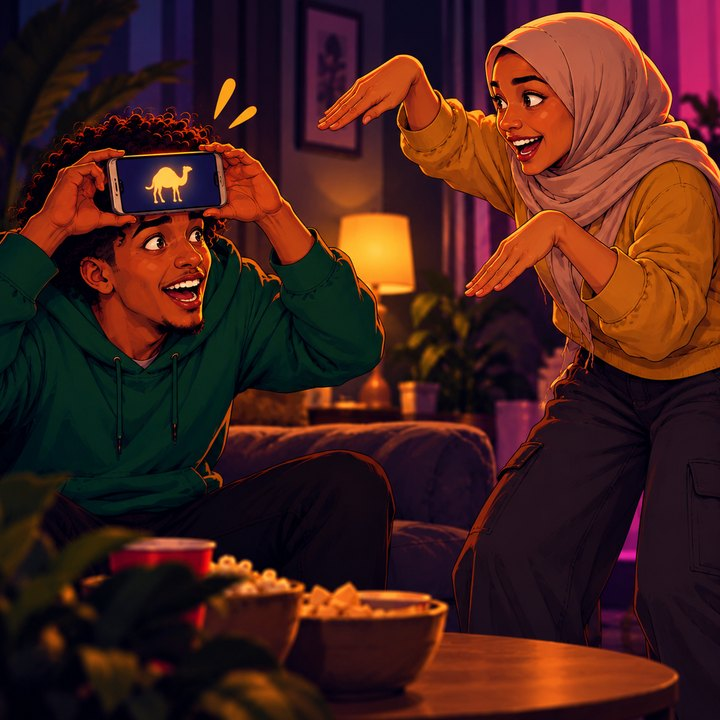
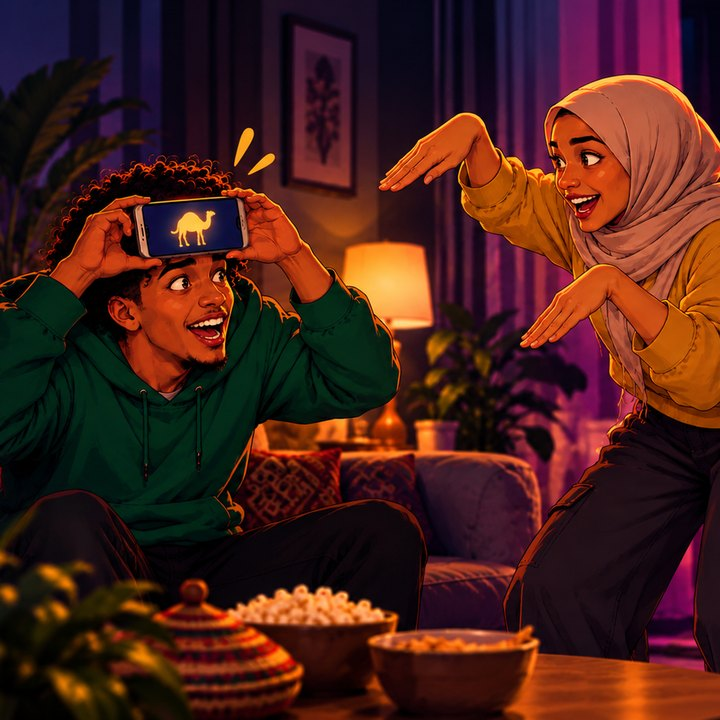
Add Would You Rather rooftop scene and a wide Gimbar cut
Every game on the home screen now has its own illustration; the moon
mascot fallback only remains for games added later. Gimbar gets a 16:9
scene so it can also be Tonight's pick.

diff --git a/src/components/brand/gameArt.ts b/src/components/brand/gameArt.ts
@@ -40,7 +40,18 @@ export const GAME_ART: Partial<Record<GameId, GameArtSet>> = {
     half: { source: require('../../../assets/illustrations/bomb-half.jpg'), aspect: 1 },
   },
   gimbar: {
+    wide: { source: require('../../../assets/illustrations/gimbar.jpg'), aspect: WIDE },
     half: { source: require('../../../assets/illustrations/gimbar-half.jpg'), aspect: 1 },
+  },
+  would_you_rather: {
+    wide: {
+      source: require('../../../assets/illustrations/would_you_rather.jpg'),
+      aspect: 1050 / 591,
+    },
+    half: {
+      source: require('../../../assets/illustrations/would_you_rather-half.jpg'),
+      aspect: 1,
+    },
   },
   whos_the_liar: {
     wide: { source: require('../../../assets/illustrations/whos_the_liar.jpg'), aspect: WIDE },

diff --git a/TASKS.md b/TASKS.md
@@ -13,12 +13,10 @@ _Last updated: 2026-10-29._
 ### Home redesign follow-ups (2026-10-29)
 Home is rebuilt on the new design (brush titles in Knewave, labels in
 Bricolage Grotesque, illustrated `GameCard`s, cast hero band). Still open:
-- [x] Real scenes for every game except Would You Rather, plus the hero
-      cast band (2026-10-29). Wide cuts in `<game>.jpg`, two-up cuts in
-      `<game>-half.jpg`; mapped in `GAME_ART` (`src/components/brand/gameArt.ts`)
-- [ ] Would You Rather scene (Addis rooftop at night) — still on the mascot
-- [ ] Gimbar has only a square cut, so it never appears as Tonight's pick;
-      a 16:9 regen would fix that
+- [x] Real scenes for all 12 games plus the hero cast band (2026-10-29).
+      Wide cuts in `<game>.jpg`, two-up cuts in `<game>-half.jpg`; mapped in
+      `GAME_ART` (`src/components/brand/gameArt.ts`). The moon-mascot
+      fallback in `GameCard` now only covers future games
 - [ ] Wordmark is still a mockup crop (360px) — swap in the original logo file
 - [ ] Carry the new type + card language to setup / session screens (still
       Outfit + Plus Jakarta Sans)
